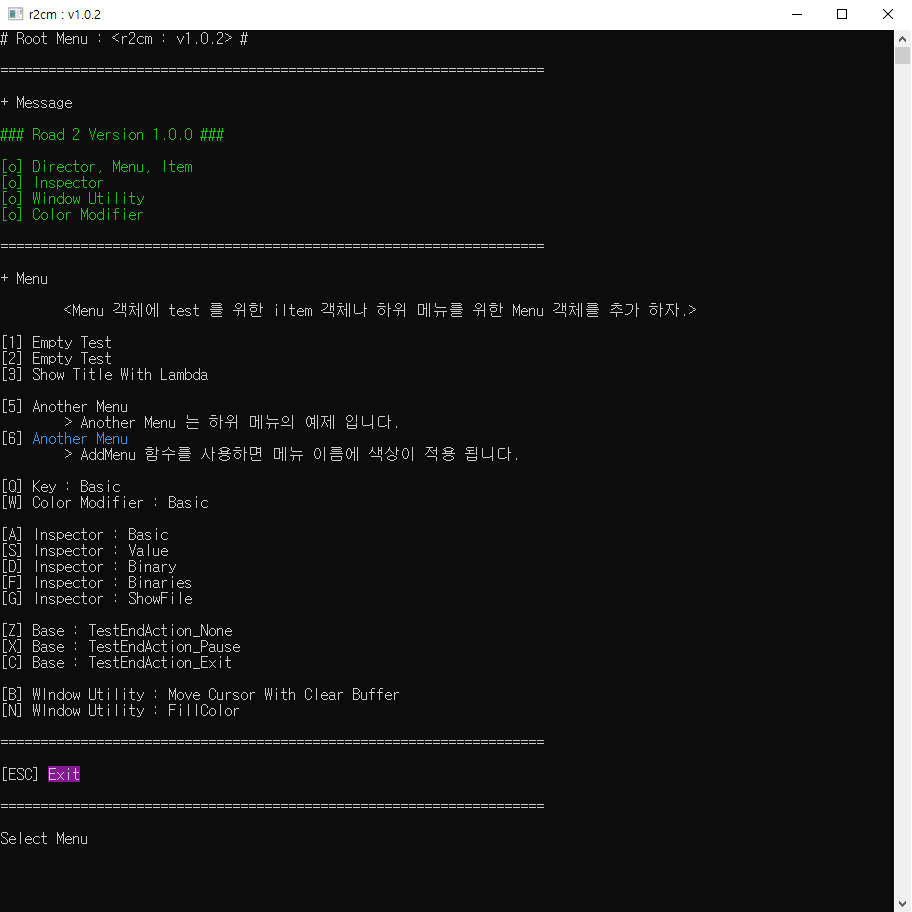
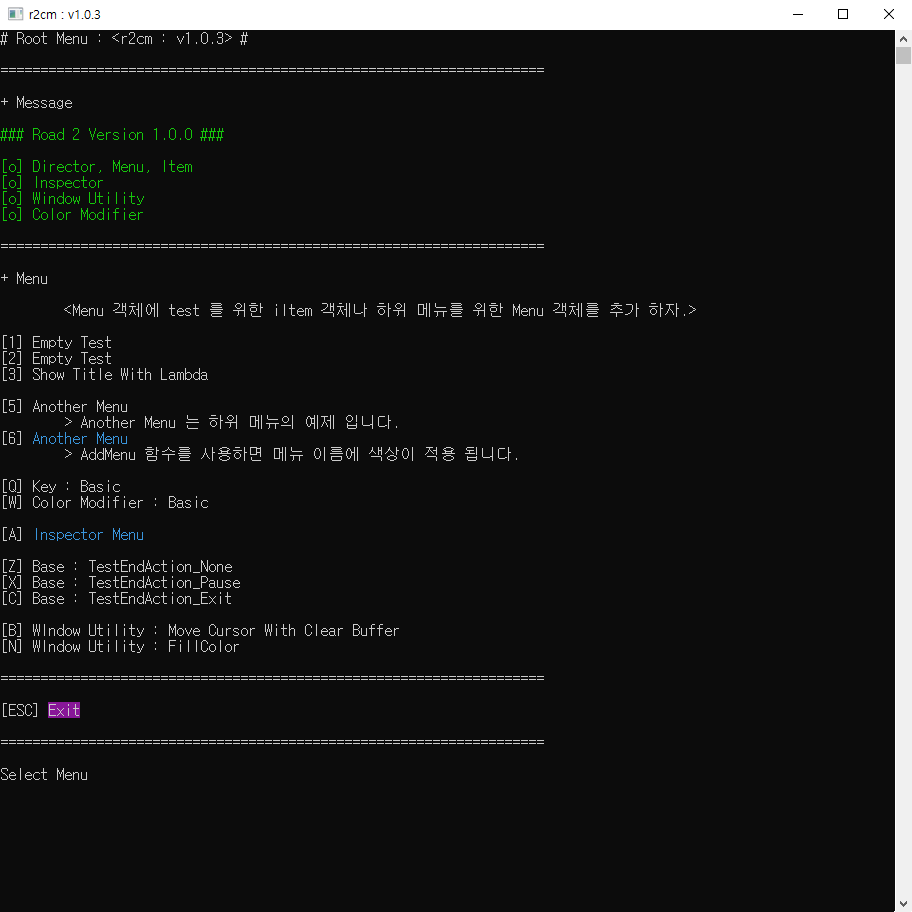
for wiki

Changed region(s): [[0.0, 0.5833, 0.4298, 0.7982], [0.0, 0.8289, 0.0921, 0.8596]]

diff --git a/README.md b/README.md
@@ -1,5 +1,5 @@
 <p align="left">
-  <img src="https://img.shields.io/badge/version-1.0.2-green" alt="version">
+  <img src="https://img.shields.io/badge/version-1.0.3-green" alt="version">
   <a href="https://discord.gg/VSpW9FUSxX"><img src="https://img.shields.io/badge/Discord-R2Road-orange" alt="discord"></a>
 </p>
 
